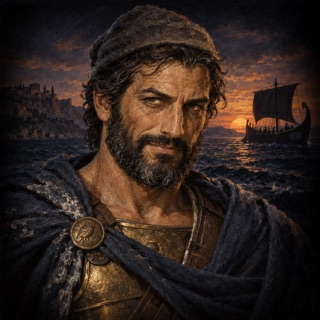
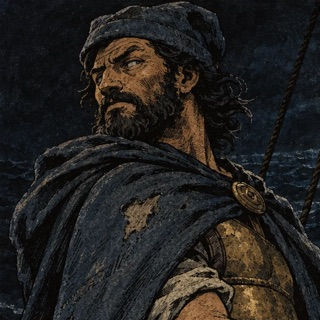
Home screen: hand-inked hero portraits seen from an angle
Odysseus at the steering oar looking back over the sea, Odin in profile walking into
the snow, Sun Wukong crouched on a cloud seen from above. Same pen-and-ink and flat
wash style as the cards, no glossy head-on look. The game copies are cut square
around each face for the round frames (make_game_assets.py). Old portraits kept in
art/archive/home_v1.

diff --git a/art/build_manifest.py b/art/build_manifest.py
@@ -165,24 +165,34 @@ ICONS = {'ody': {
 # Home screen ("Choose your character"): one portrait per hero in their own mythology's style,
 # plus the background painting.
 PORTRAIT_BASE = (
-    'A hero portrait for a card game\'s character-select screen, painted in the style of early-to-mid 1990s '
-    'trading-card art: traditional gouache and ink, visible brushwork, matte and slightly worn like an old '
-    'printed card, rustic rather than glossy. Head and shoulders, nearly facing the viewer, strong readable '
-    'silhouette, centred, with the background fading to near-black at the edges so it sits on a dark screen. '
-    'No text, no letters, no border, no frame, no logo.'
+    'A hero portrait for a card game\'s character-select screen, made by hand like a 1993 fantasy trading-card or '
+    'game-book illustration, the same look as the game\'s cards: confident black pen-and-ink outlines around every '
+    'shape, ink hatching in the shadows, filled with flat, slightly blotchy gouache and watercolour washes, visible '
+    'brush marks and the rough off-white paper grain showing through, colours a little faded and misregistered like '
+    'an old printed card. A limited palette of 4 or 5 colours, dark overall. Stylised and graphic with bold simple '
+    'shapes, not realistic: no smooth skin rendering, no soft glow, no rim light, no sunset glare, no depth of field, '
+    'no oil-painting polish, no 3D, not modern digital concept art, not a heroic movie poster. '
+    'Not head-on and not looking at the viewer: the figure is seen from an angle, caught in a moment of their story. '
+    'Head and upper body fill the square and may be cropped by the edges; the background is simple and dark and '
+    'falls to near-black at the edges so it sits on a dark screen. No text, no letters, no border, no frame, no logo.'
 )
 HOME = {
-    'ody': ('Odysseus, king of Ithaca and the cunning wanderer of Homer\'s Odyssey: a weathered, bearded man in '
-            'his forties with sharp, clever eyes and a faint knowing smile, a simple felt sailor\'s cap, bronze '
-            'armour under a salt-stained cloak, a black Greek ship and the wine-dark sea behind him at dusk. '
-            'Greek in every detail.'),
-    'odin': ('Odin the Allfather of Norse myth: one-eyed, a long grey beard, a wide-brimmed hat and a dark blue '
-             'cloak, the spear Gungnir in hand, his two ravens Huginn and Muninn on his shoulders, a snowy northern '
-             'night with a faint aurora, subtle Norse knotwork carved into a standing stone behind him.'),
-    'wukong': ('Sun Wukong, the Monkey King of Journey to the West: a monkey warrior with golden fur and fierce '
-               'golden eyes, the golden fillet around his head, a phoenix-feather cap, golden chain armour and '
-               'his red-and-gold staff, standing on a swirling cloud, misty Chinese mountains behind, with the '
-               'feel of classical Chinese ink painting.'),
+    'ody': ('Odysseus, king of Ithaca, seen in three-quarter view from slightly below and to the side, standing at '
+            'the stern of his black Greek ship and gripping the steering oar, his head turned away over his shoulder '
+            'as he looks back across the wine-dark sea, eyes narrowed and calculating. A weathered, bearded man in a '
+            'simple felt sailor\'s cap and a patched, salt-stained cloak over plain bronze armour. Night sea, a '
+            'single pale moon, the ship\'s painted eye on the hull at the edge of the picture. Greek in every detail, '
+            'colours of deep sea blue, black and dull bronze.'),
+    'odin': ('Odin the Allfather of Norse myth, seen in profile from the side, walking into a cold wind with his head '
+             'bowed, the brim of his wide hat hiding his single eye in shadow, his long grey beard and dark blue '
+             'cloak blown sideways, leaning on the spear Gungnir like a wanderer\'s staff. One raven perched on his '
+             'shoulder and a second flying past. Snowy northern night, a carved runestone with knotwork beside him. '
+             'Colours of slate blue, grey and bone white.'),
+    'wukong': ('Sun Wukong, the Monkey King of Journey to the West, seen from above and behind at a steep angle, '
+               'crouched on a curling cloud and turning his head back toward the viewer with a sly grin, his '
+               'red-and-gold staff balanced across his shoulders, golden fur, the golden fillet on his brow and a '
+               'phoenix-feather cap. Misty ink-wash mountain peaks far below. Colours of red, dull gold and ink '
+               'black, with the brush rhythm of classical Chinese ink painting mixed into the pen-and-ink style.'),
 }
 HOME_BG = (
     'A wide, very dark, atmospheric background painting for the title screen of a mythology card game: a vast '

diff --git a/art/make_game_assets.py b/art/make_game_assets.py
@@ -11,7 +11,7 @@ Writes (all loaded by the game by relative path):
 Then rebuild the game:  cd tooling && python3 build.py n1.html   (patch46 reads cards.json)
 Python standard library + macOS sips only. Only files that are missing or older than their source are redone.
 """
-import argparse, json, os, subprocess
+import tempfile, argparse, json, os, subprocess
 
 ART = os.path.dirname(os.path.abspath(__file__))
 GAME = os.path.join(ART, 'game')
@@ -112,6 +112,21 @@ def main():
             made += shrink(src, os.path.join(GAME, 'back', fn), 256, fmt='png')
         else:
             made += shrink(src, os.path.join(GAME, 'icons', fn), 128 if fn.startswith('med_') else 96, fmt='png')
+    # home screen portraits and background
+    hdir = os.path.join(ART, 'home')
+    # the round frame shows the head, so each portrait is cut to a square around the face (on the 1024 source)
+    face_crop = {'ody': (1, 1, 620), 'odin': (190, 40, 640), 'wukong': (300, 1, 620)}  # sips treats an offset of 0 as 'centre'
+    for k, (x0, y0, side) in face_crop.items():
+        src, dst = os.path.join(hdir, k + '.webp'), os.path.join(GAME, 'home', k + '.jpg')
+        if os.path.exists(src) and (not os.path.exists(dst) or os.path.getmtime(dst) < os.path.getmtime(src)):
+            with tempfile.TemporaryDirectory() as t:  # sips only honours --cropOffset on a file in its own format
+                png = os.path.join(t, k + '.png')
+                subprocess.run(['sips', '-s', 'format', 'png', src, '--out', png], check=True, capture_output=True)
+                subprocess.run(['sips', '--cropToHeightWidth', str(side), str(side), '--cropOffset', str(y0), str(x0), png],
+                               check=True, capture_output=True)
+                subprocess.run(['sips', '-Z', '320', '-s', 'format', 'jpeg', '-s', 'formatOptions', '82', png, '--out', dst],
+                               check=True, capture_output=True)
+            made += 1
     # card back (game-wide) and the sigil on it
     bdir = os.path.join(ART, 'back')
     if os.path.exists(os.path.join(bdir, 'back.webp')):
